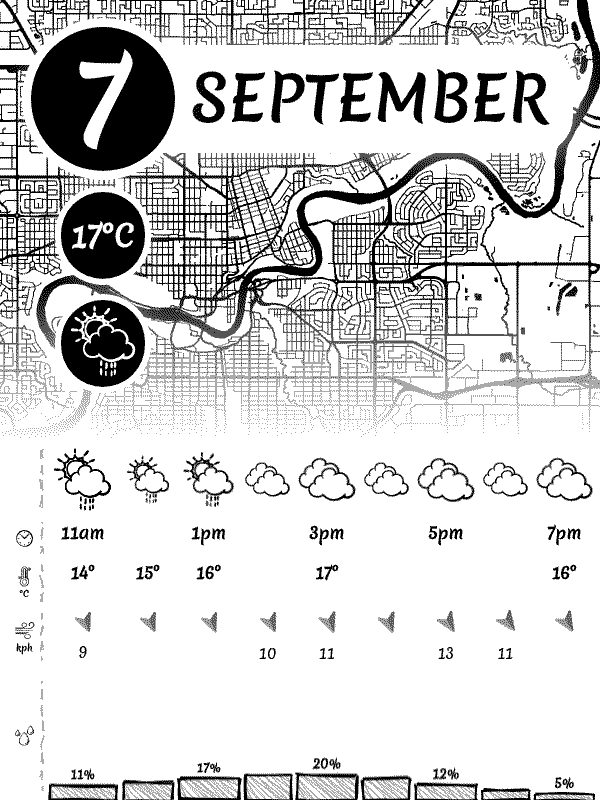
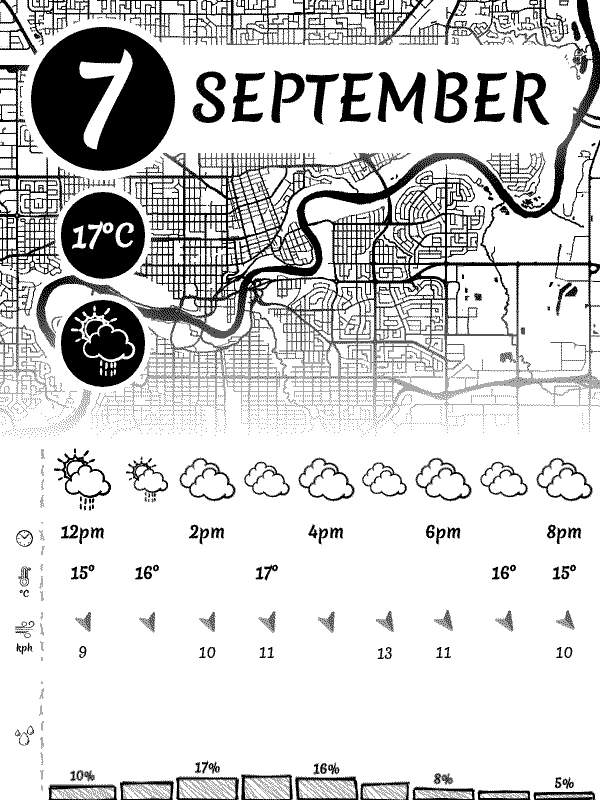
Refresh the README samples with both charts in place

diff --git a/docs/99-lab-log.md b/docs/99-lab-log.md
@@ -514,3 +514,35 @@ Two things that needed a second pass:
 Deployment note: `git apply` a patch that is already applied fails, which is
 correct but reads as an error in a loop over all patches. Check the tree for a
 marker string rather than trusting the exit code.
+
+## 2026-09-07 — Precipitation chart on tomorrow too; README photographs
+`hourly_forecasts` is "the next N hours from now", so on the tomorrow page —
+shown 21:00-06:00 — it would have charted the overnight, not tomorrow. Added a
+**`tomorrow_hourly`** dataset instead: 06:00-21:00 every two hours. It is
+**concrete and returns `[]` on the base `WeatherService`**, overridden for
+Open-Meteo, which already fetches a multi-day hourly array. Making it abstract
+would have broken every other provider the moment a page listed it in
+`requires`; this way they just yield no chart.
+The chart itself moved into `SimplifiedPage._precip_chart` so both pages share
+one implementation.
+
+README photographs: Wikimedia Commons, licences checked —
+[Nook Simple Touch](https://commons.wikimedia.org/wiki/File:Nook_Simple_Touch.jpg)
+by Tthaas (CC BY-SA 3.0) and
+[Raspberry Pi Zero 2 W](https://commons.wikimedia.org/wiki/File:Raspberry_Pi_Zero_2_W_--_2024_--_0008.jpg)
+by Anil Öztas (CC BY 4.0). Vendored with attribution rather than hotlinked;
+both licences permit it, and links rot.
+
+### Three mistakes, all mine, all worth remembering
+- **The overlay is patches *and* a file copy.** `google/api.py` is installed by
+  copying, not patching. Reverting the checkout so patches apply cleanly threw
+  it away silently, and the renderer came up running upstream's Google code and
+  died on `Invalid API key provided.` Now `upstream/refresh-on-pi.sh` does both
+  and greps the result to prove the shim landed.
+- **A helper that takes a `title` and then hardcodes the string.** The tomorrow
+  page read "Chance of precipitation" instead of naming the day. Extracted code
+  needs its parameters actually wired, not just accepted.
+- **Fetching the sample images before the HTTP server was up truncated all four
+  to zero bytes.** The `until` loop matched a stale log line. Fetch to a temp
+  file, decode it, and only then move it into place — the same rule the panel
+  server already follows for the pages it serves.
